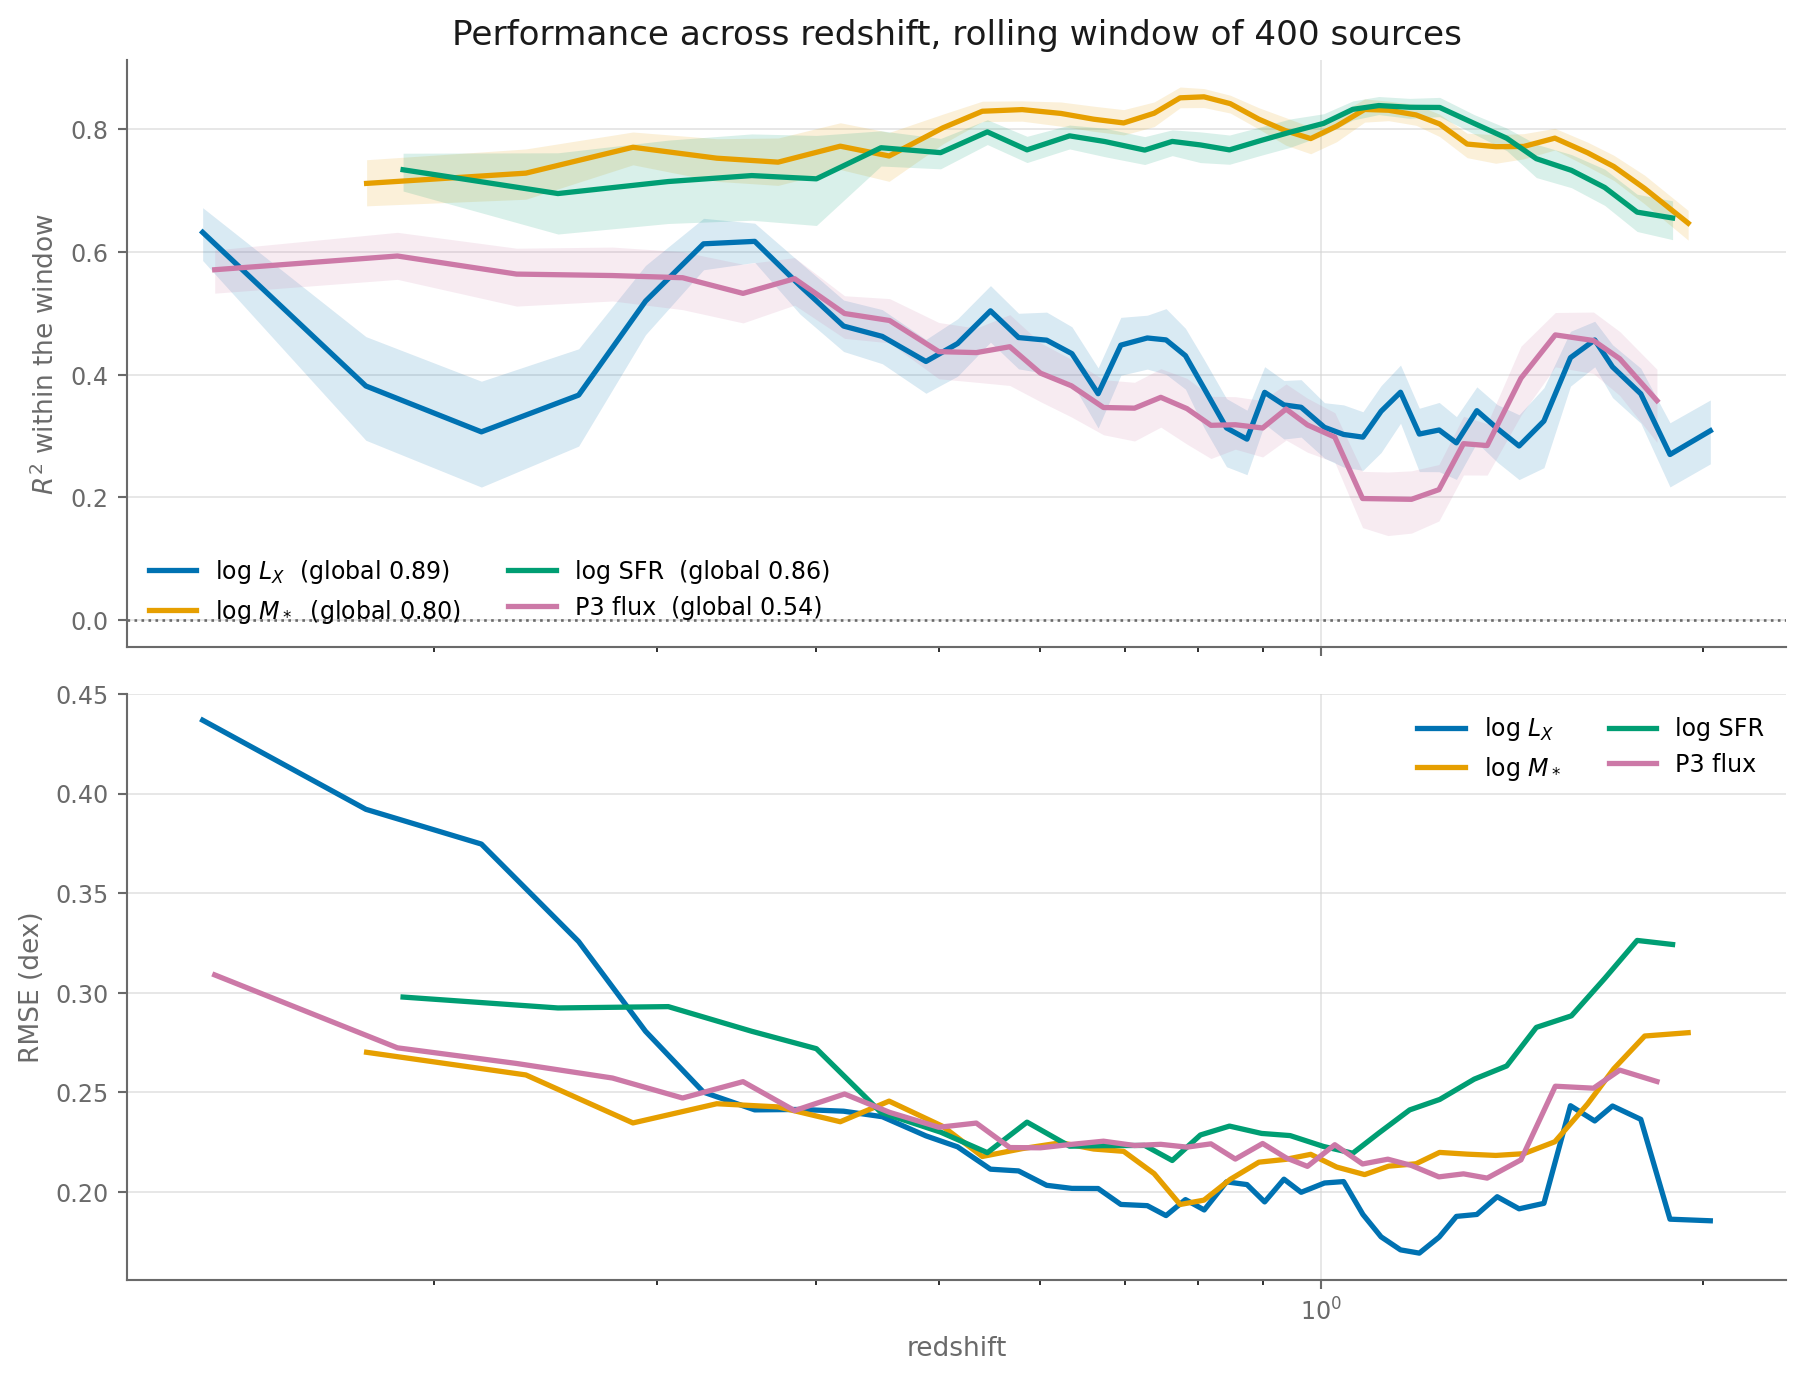
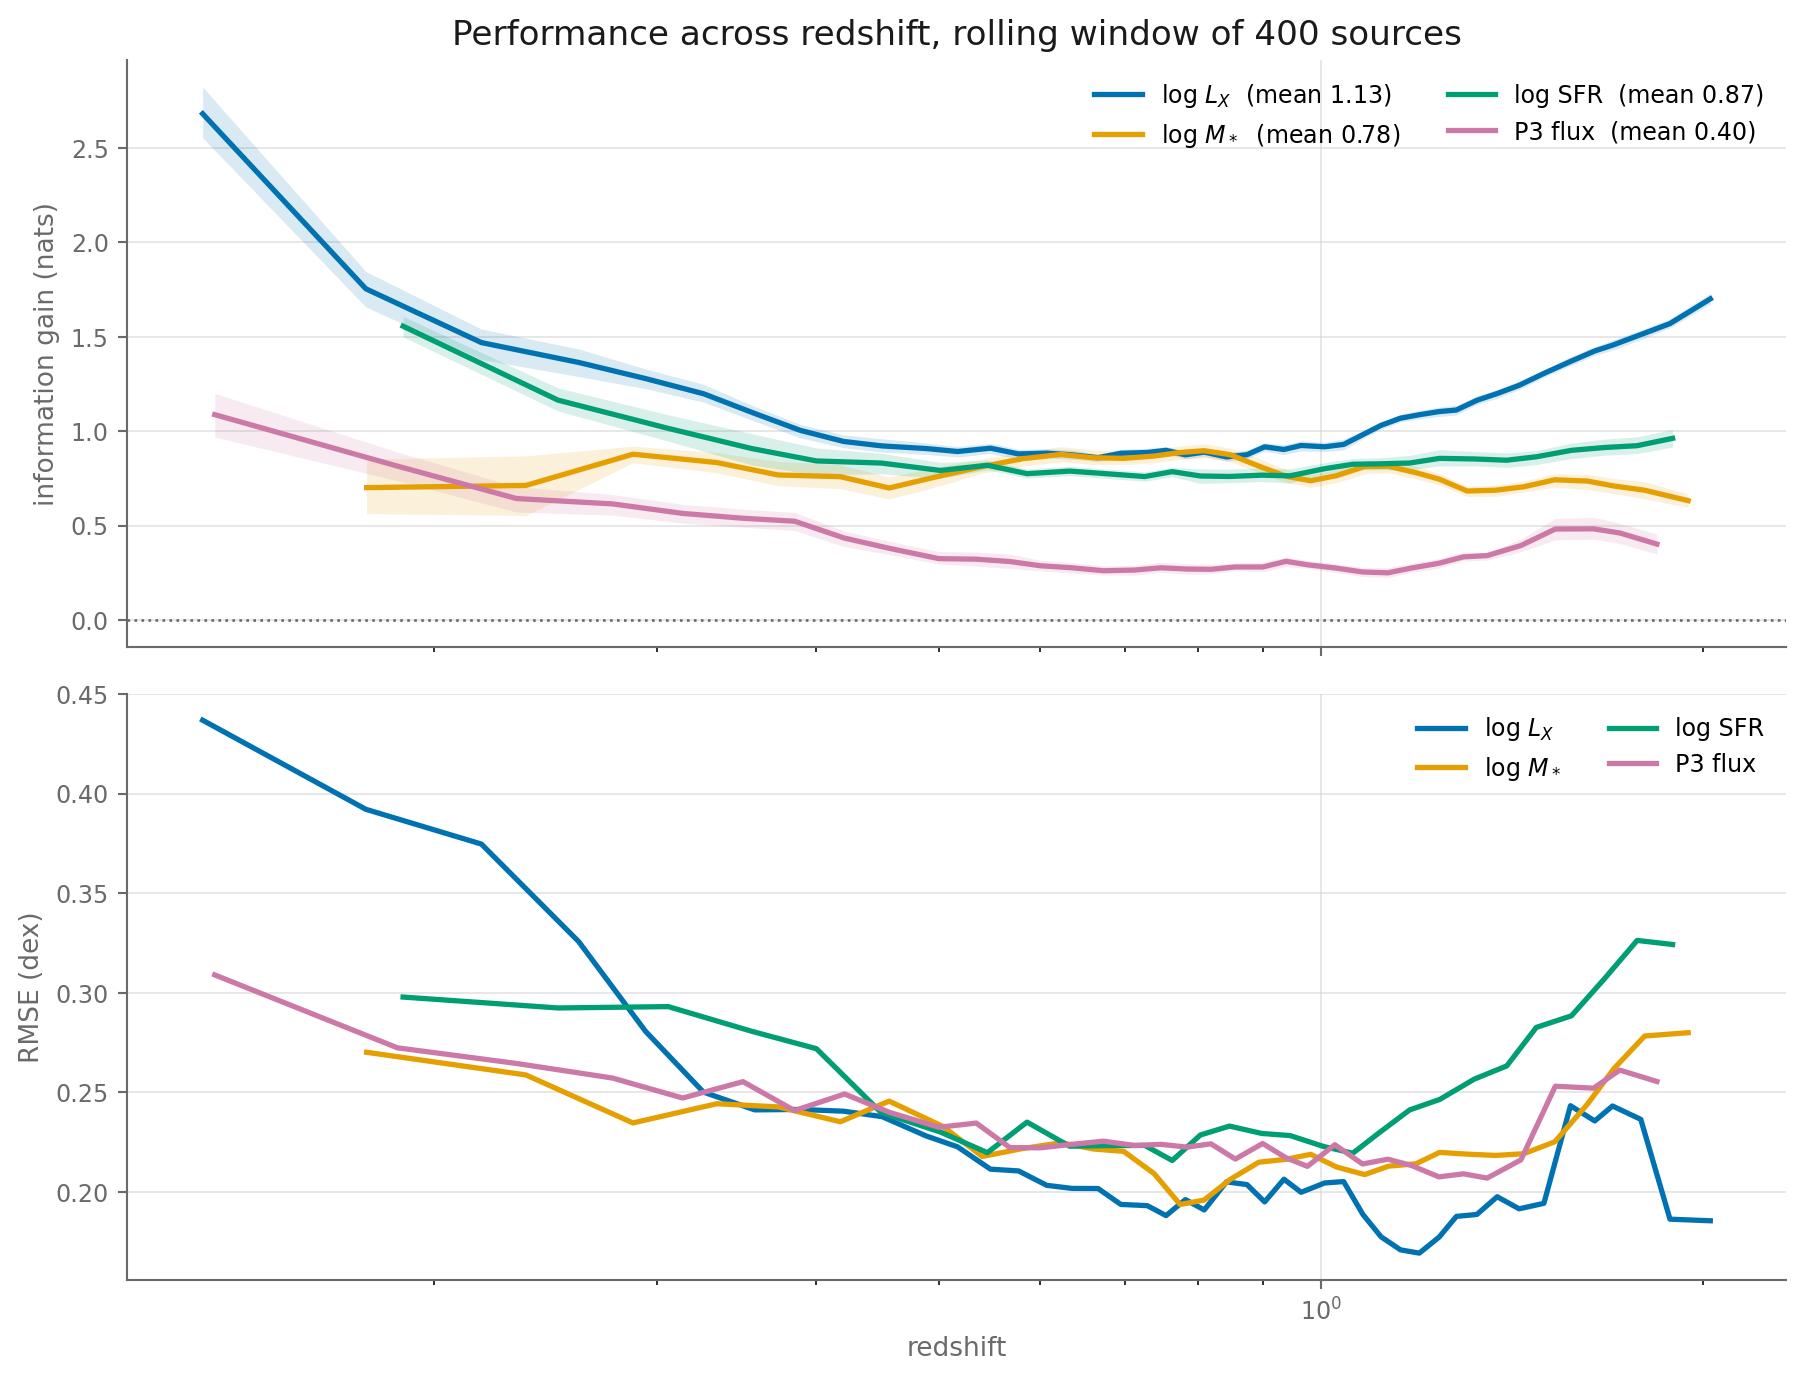
redshift figure: information gain instead of R^2
IG rewards a sharper posterior rather than only a better point estimate. It is
the Gaussian form from the posterior mean and width against a Gaussian prior:
phase 1 trained only the joint head, so the marginal flows in this checkpoint
were never fitted and their own log-densities would be meaningless. The
docstring says so.

Slide text rewritten to match, since it still quoted the R^2 numbers. Also
renames a local that shadowed the sidecar frame and worked only by ordering.

Claude-Session: https://claude.ai/code/session_01ErotphP3bBd28avXJmBFog

diff --git a/docs/make_redshift_performance.py b/docs/make_redshift_performance.py
@@ -3,14 +3,25 @@
 
 Two panels, because one of them is misleading on its own:
 
-  R^2 WITHIN the window   how much of the spread AT THIS REDSHIFT we explain
+  INFORMATION GAIN        nats gained over the prior, so a sharper posterior is
+                          rewarded and not only a better point estimate
   RMSE (dex)              the absolute error, which no normalisation can flatter
 
-The distinction matters most for log Lx. Its global R^2 of about 0.92 is
-largely redshift: Lx is derived from flux times distance squared, so once z is
-given, most of the population variance is already determined. Inside a narrow
-z window that free ride is gone and the model has to predict the residual
-scatter, so the within-window R^2 is far lower and is the honest number.
+IG here is the GAUSSIAN form, computed from the posterior mean and width
+against a Gaussian prior fitted on the same targets:
+
+    IG = log(sd_prior / sd_post)
+         - 0.5 * [ ((y-mu_post)/sd_post)^2 - ((y-mu_prior)/sd_prior)^2 ]
+
+That is exact if both densities are Gaussian and approximate otherwise. The
+flow's own log-density would be better, but phase 1 trained ONLY the joint
+head, so the marginal flows in this checkpoint were never fitted and their
+log-probs are meaningless. Use the refit heads if an exact per-target IG is
+needed.
+
+Read IG per window, not globally. log Lx is flux times distance squared, so
+conditioning on z already spends most of its population variance; a global
+score flatters that head in a way a within-window score does not.
 
 Windows are rolling in log z with a fixed source count, so every point carries
 the same statistical weight, and the band is a bootstrap over sources.
@@ -49,30 +60,29 @@ def style(ax) -> None:
     ax.tick_params(colors=MUTED, labelsize=9)
 
 
-def rolling(z, truth, pred, width, n_boot, rng):
-    """Rolling window in sorted z with a fixed count; returns z, R2, RMSE, bands."""
-    ok = np.isfinite(z) & np.isfinite(truth) & np.isfinite(pred)
-    z, truth, pred = z[ok], truth[ok], pred[ok]
+def rolling(z, truth, pred, sd, width, n_boot, rng):
+    """Rolling window in sorted z with a fixed count; returns z, IG, RMSE, bands."""
+    ok = np.isfinite(z) & np.isfinite(truth) & np.isfinite(pred) & np.isfinite(sd) & (sd > 0)
+    z, truth, pred, sd = z[ok], truth[ok], pred[ok], sd[ok]
+    # prior: a Gaussian on the target's own marginal over these sources
+    mu0, sd0 = float(np.mean(truth)), float(np.std(truth))
+    ig_all = (np.log(sd0 / sd)
+              - 0.5 * (((truth - pred) / sd) ** 2 - ((truth - mu0) / sd0) ** 2))
     order = np.argsort(z)
-    z, truth, pred = z[order], truth[order], pred[order]
+    z, truth, pred, ig_all = z[order], truth[order], pred[order], ig_all[order]
     n = len(z)
     if n < width * 2:
         return None
     out = []
     for s in range(0, n - width, max(1, width // 4)):
         sl = slice(s, s + width)
-        t, p = truth[sl], pred[sl]
-        res = t - p
-        denom = np.sum((t - t.mean()) ** 2)
-        r2 = 1.0 - np.sum(res ** 2) / denom if denom > 0 else np.nan
-        rmse = float(np.sqrt(np.mean(res ** 2)))
+        t, p, g = truth[sl], pred[sl], ig_all[sl]
+        rmse = float(np.sqrt(np.mean((t - p) ** 2)))
+        ig = float(np.mean(g))
         idx = rng.integers(0, width, size=(n_boot, width))
-        tb, pb = t[idx], p[idx]
-        rb = tb - pb
-        db = ((tb - tb.mean(1, keepdims=True)) ** 2).sum(1)
-        r2b = np.where(db > 0, 1.0 - (rb ** 2).sum(1) / np.maximum(db, 1e-30), np.nan)
-        out.append((float(np.median(z[sl])), r2, rmse,
-                    float(np.nanpercentile(r2b, 16)), float(np.nanpercentile(r2b, 84))))
+        igb = g[idx].mean(1)
+        out.append((float(np.median(z[sl])), ig, rmse,
+                    float(np.nanpercentile(igb, 16)), float(np.nanpercentile(igb, 84))))
     return np.array(out)
 
 
@@ -95,34 +105,31 @@ def main() -> None:
     keep = np.ones(len(tid), bool)
     if args.group:
         keep = d["group"].astype(str) == args.group
-    sd = (pd.read_csv(args.sidecar, usecols=["targetid", "z"])
-          .drop_duplicates("targetid").set_index("targetid"))
-    z = sd.reindex(tid).z.to_numpy(float)[keep]
-    truth, mean = d["truth"][keep], d["mean"][keep]
+    zsrc = (pd.read_csv(args.sidecar, usecols=["targetid", "z"])
+            .drop_duplicates("targetid").set_index("targetid"))
+    z = zsrc.reindex(tid).z.to_numpy(float)[keep]
+    truth, mean, sd = d["truth"][keep], d["mean"][keep], d["sd"][keep]
     rng = np.random.default_rng(0)
 
     fig, axes = plt.subplots(2, 1, figsize=(9.6, 7.4), sharex=True)
-    print(f"{'target':>18s} {'n':>6s} {'global R2':>10s}  within-window R2 range")
+    print(f"{'target':>18s} {'wins':>6s} {'mean IG':>10s}  window IG range")
     for c, name in zip(COLORS, args.targets):
         k = dims.index(name)
         res = rolling(z, truth[:, k].astype(float), mean[:, k].astype(float),
-                      args.width, args.n_boot, rng)
+                      sd[:, k].astype(float), args.width, args.n_boot, rng)
         if res is None:
             print(f"{name:>18s}  too few sources for a window")
             continue
-        zz, r2, rmse, lo, hi = res.T
-        ok = np.isfinite(truth[:, k]) & np.isfinite(z)
-        t, p = truth[ok, k].astype(float), mean[ok, k].astype(float)
-        g = 1 - np.sum((t - p) ** 2) / np.sum((t - t.mean()) ** 2)
-        print(f"{name:>18s} {int(ok.sum()):>6,} {g:>10.3f}  "
-              f"{np.nanmin(r2):+.2f} to {np.nanmax(r2):+.2f}")
+        zz, ig, rmse, lo, hi = res.T
+        print(f"{name:>18s} {len(zz):>6,} {np.mean(ig):>10.3f}  "
+              f"{np.nanmin(ig):+.2f} to {np.nanmax(ig):+.2f}")
         lab = PRETTY.get(name, name)
-        axes[0].plot(zz, r2, color=c, lw=2.0, label=f"{lab}  (global {g:.2f})")
+        axes[0].plot(zz, ig, color=c, lw=2.0, label=f"{lab}  (mean {np.mean(ig):.2f})")
         axes[0].fill_between(zz, lo, hi, color=c, alpha=0.15, lw=0)
         axes[1].plot(zz, rmse, color=c, lw=2.0, label=lab)
 
     axes[0].axhline(0, color=MUTED, lw=1.0, ls=":")
-    axes[0].set_ylabel(r"$R^2$ within the window", color=MUTED)
+    axes[0].set_ylabel("information gain (nats)", color=MUTED)
     axes[0].set_title("Performance across redshift, rolling window of "
                       f"{args.width} sources"
                       + (f", {args.group} only" if args.group else ""),

diff --git a/docs/make_slides.py b/docs/make_slides.py
@@ -436,15 +436,18 @@ def main() -> None:
                 "statistical weight")
             image_panel(fig, FIGS / "fig_perf_vs_z.png", (0.20, 0.30, 0.60, 0.52))
             bullets(ax, [
-                "log Lx scores 0.89 globally but only 0.27 to 0.63 inside a "
-                "redshift window. Lx is flux times distance squared, so once z is "
-                "given most of the population variance is already spent. The "
-                "within-window number is the honest one.",
-                "log M* and log SFR hold up at 0.65 to 0.85, close to their global "
-                "values, so those heads are not living off the distance.",
-                "Lx is worst at low z, RMSE 0.44 dex against 0.19 at z of 1, which "
-                "is exactly where the sSFR tradeoff appears.",
-            ], y=0.255, dy=0.075, fontsize=12.5)
+                "Information gain against a Gaussian prior, so a sharper posterior "
+                "is rewarded and not only a better point estimate.",
+                "log Lx gains most at the two ends, 2.7 nats below z of 0.1 and "
+                "1.7 at the top, and least in the middle. The prior is widest "
+                "where the sample is sparse, so part of that is the prior and not "
+                "the model.",
+                "RMSE tells the complementary story: Lx is WORST at low z, 0.44 dex "
+                "against 0.19 near z of 1, which is exactly where the sSFR "
+                "tradeoff appears. High IG and high error together mean a wide "
+                "posterior that is honestly wide.",
+                "log M* and log SFR sit flat near 0.8 nats across the whole range.",
+            ], y=0.265, dy=0.068, fontsize=11.5)
             pdf.savefig(fig); plt.close(fig)
 
         # ---- COLLIDER: the per-source correlation distribution
